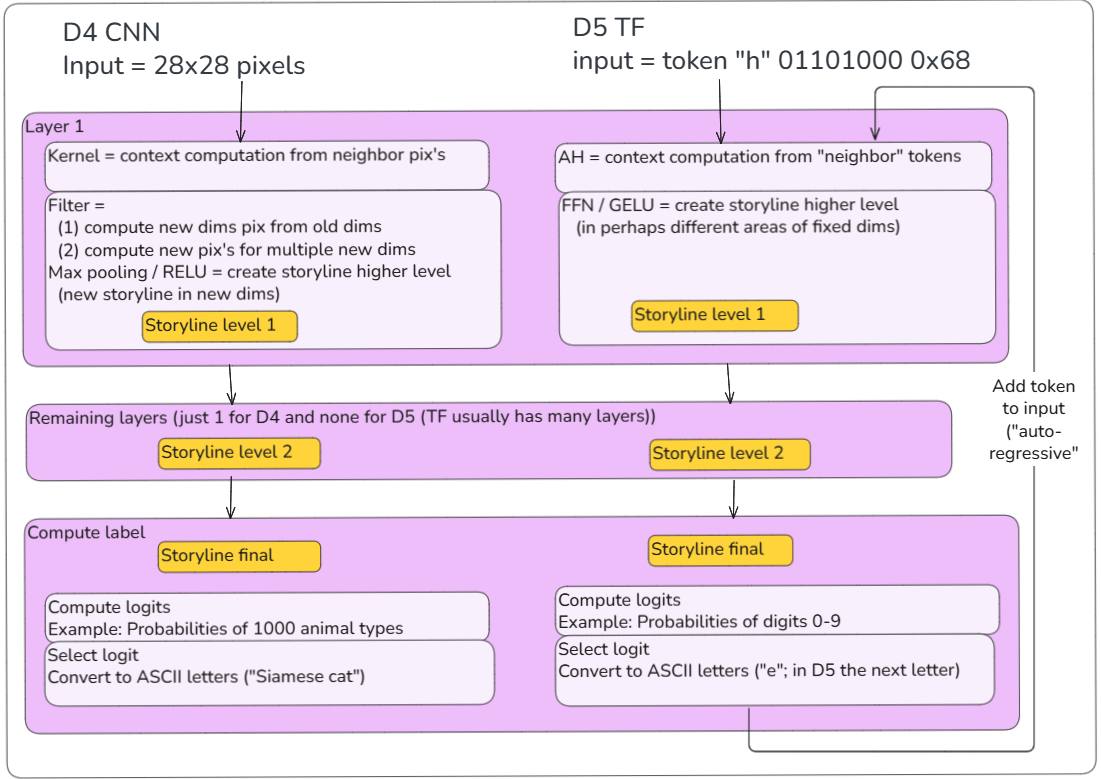
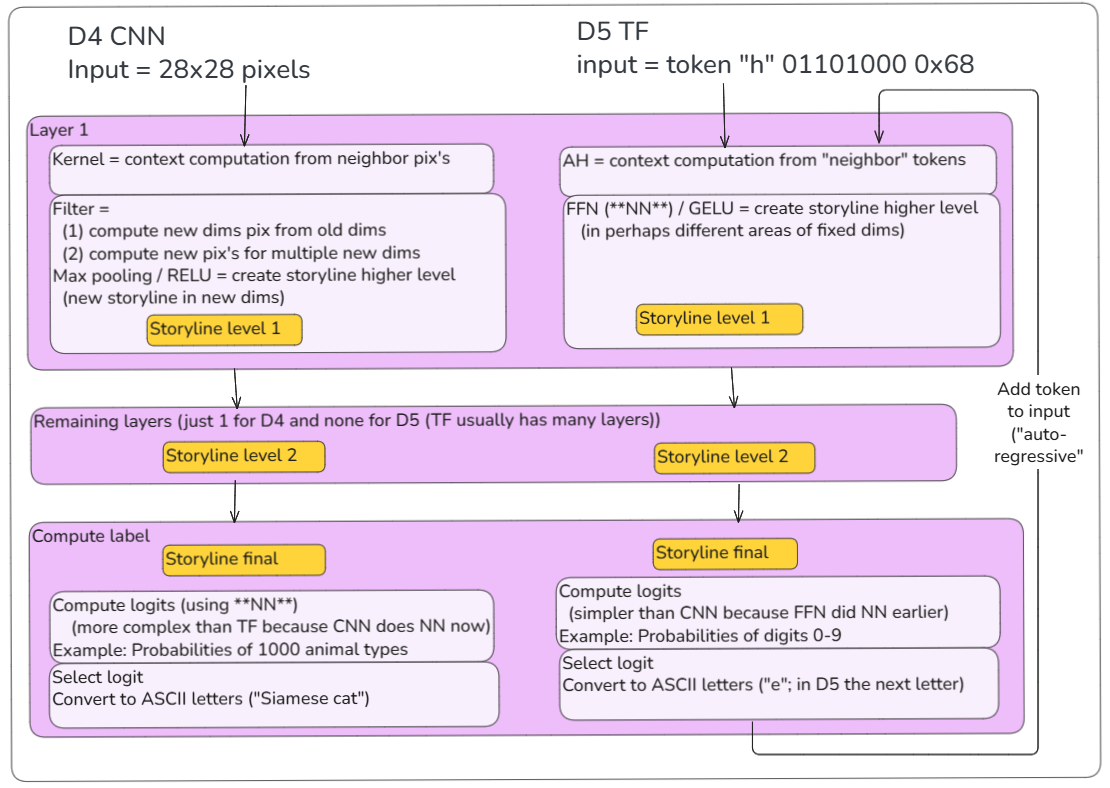
tue 02

Changed region(s): [[0.0, 0.0, 1.0, 1.0]]

diff --git a/_includes/footer.html b/_includes/footer.html
@@ -10,7 +10,7 @@
       <a href="https://github.com/terrytaylorbonn?tab=repositories">Git</a> &middot;
       <a href="https://www.linkedin.com/in/terry-taylor-biz">LinkedIn</a> &middot;
       <a href="https://www.youtube.com/@ziptieai">Youtube</a> &middot;
-      26.0608
+      26.0609
     </div>
   </div>
 